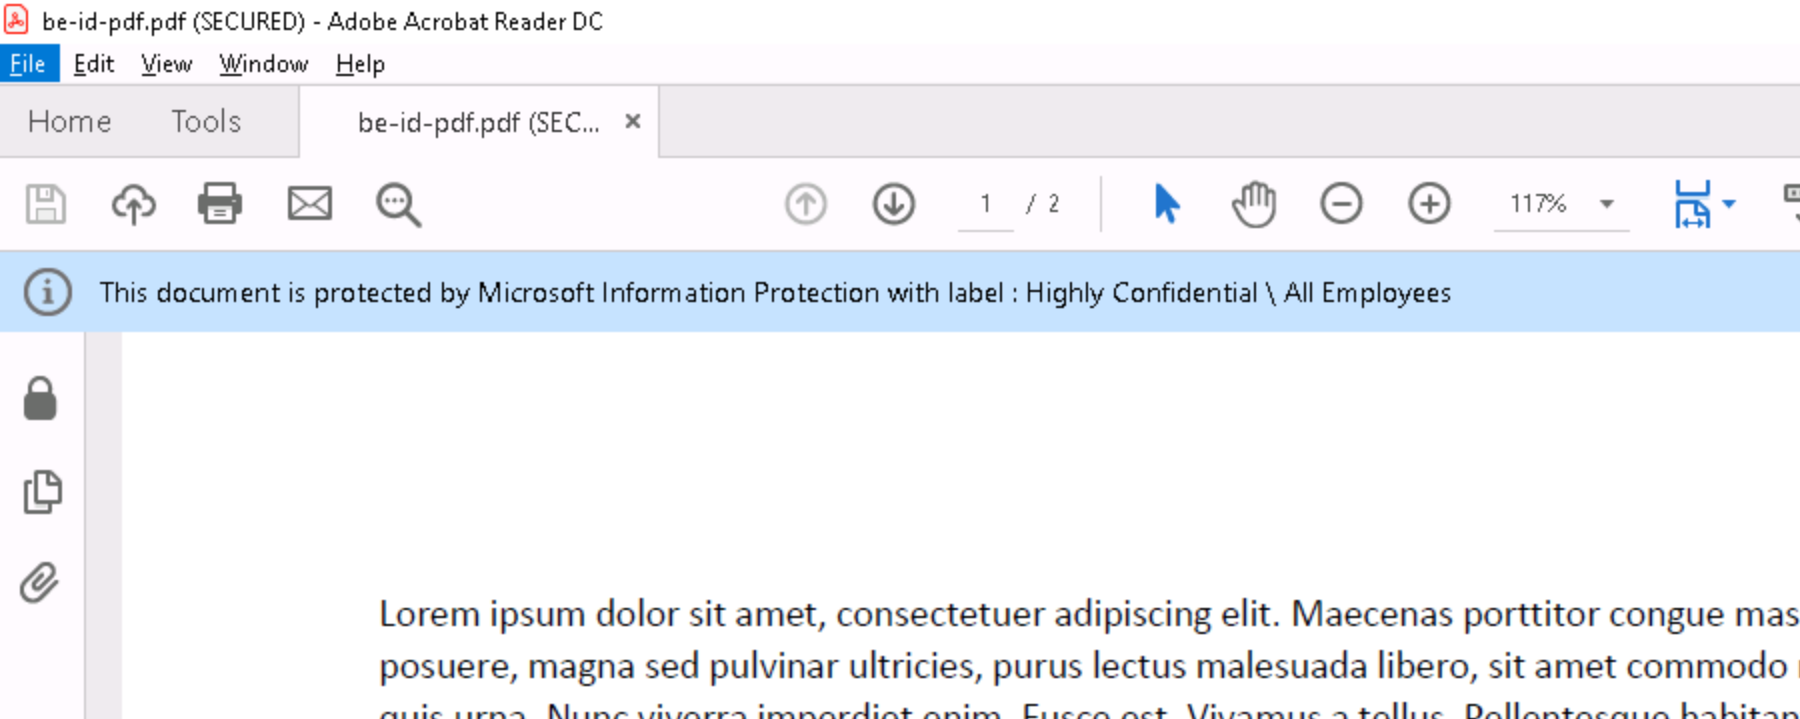
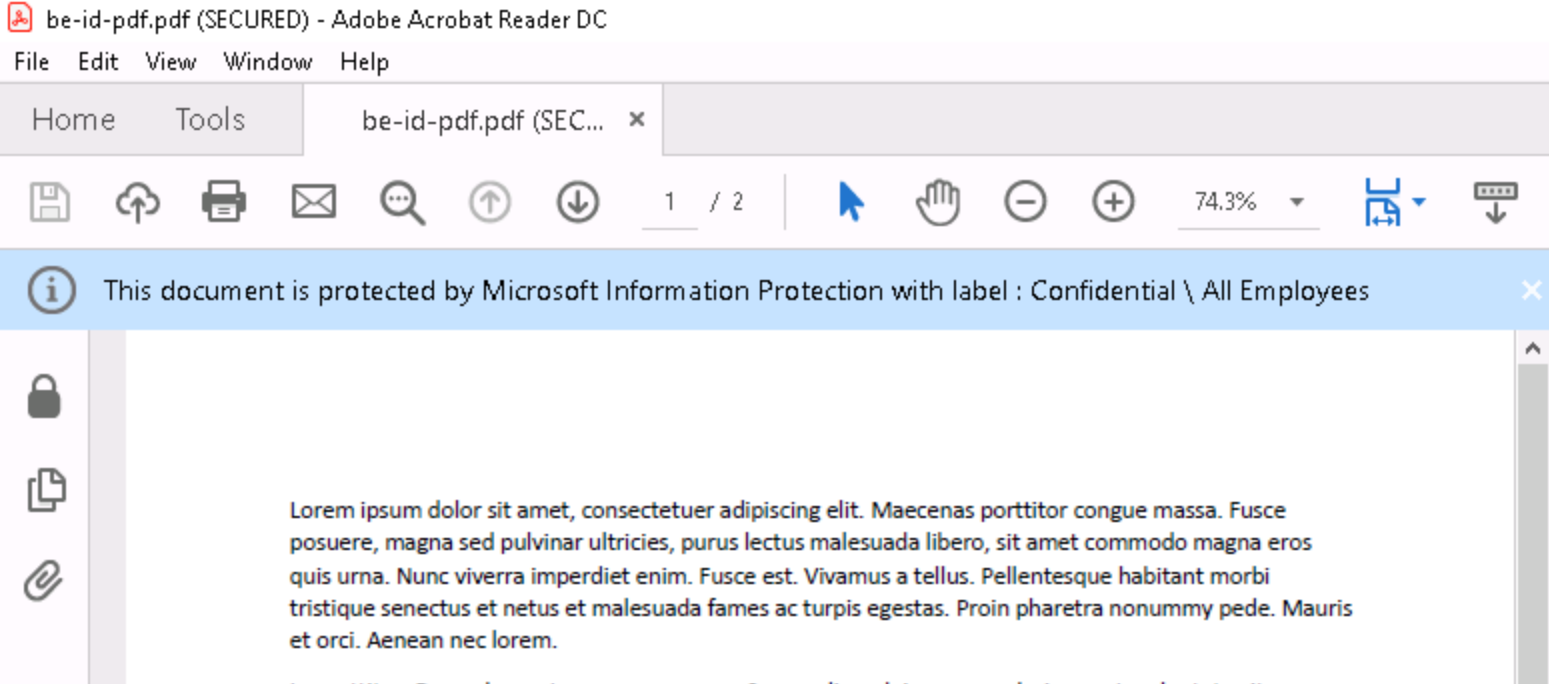
updates

diff --git a/Modules/Working/instructions.md b/Modules/Working/instructions.md
@@ -1089,6 +1089,13 @@ The Azure Information Protection Scanner uses Automatic conditions to identify s
 
 1. [] On @lab.VirtualMachine(Client01).SelectLink, log in with the password +++@lab.VirtualMachine(Client01).Password+++.
 2. [] Open the browser window with the Azure Portal (AIP Blade).
+
+	> [!HINT] If necessary, open an InPrivate browsing session and navigate to ```https://portal.azure.com/#blade/Microsoft_Azure_InformationProtection/DataClassGroupEditBlade/globalBlade``` and login with the credentials below. 
+	>
+	> ```@lab.CloudCredential(17).Username```
+	>
+	> ```@lab.CloudCredential(17).Password```
+
 3. [] Under **Dashboards** on the left, click on **Data discovery (Preview)** to view the results of the discovery scan we performed previously.
 
 	!IMAGE[Dashboard.png](\Media\Dashboard.png)
@@ -1152,15 +1159,14 @@ The Azure Information Protection Scanner uses Automatic conditions to identify s
 In this task, we will set the AIP scanner to enforce the conditions we set up in the previous task and have it rerun on all files using the Start-AIPScan command.
 
 1. [] Switch to @lab.VirtualMachine(Scanner01).SelectLink and log in with the password +++@lab.VirtualMachine(Scanner01).Password+++.
-1. [] In an **Administrative PowerShell** window, run the commands below to run an enforced scan using defined policy.
+1. [] In an **Administrative PowerShell** window, type ```C:\Users\LabUser\Desktop\StartEnforce.ps1``` and press **Enter**. 
 
-    ```
-	Set-AIPScannerConfiguration -Enforce On -DiscoverInformationTypes PolicyOnly
-	```
-	```
-	Start-AIPScan
-    ```
-
+    > [!KNOWLEDGE] The script runs the code below. This script is available online at https://aka.ms/labscripts
+	>
+	> Set-AIPScannerConfiguration -Enforce On -DiscoverInformationTypes PolicyOnly
+	>
+	>Start-AIPScan
+    
 	> [!HINT] Note that this time we used the DiscoverInformationTypes -PolicyOnly switch before starting the scan. This will have the scanner only evaluate the conditions we have explicitly defined in conditions.  This increases the effeciency of the scanner and thus is much faster.  After reviewing the event log we will see the result of the enforced scan.
 	>
 	>!IMAGE[k3rox8ew.jpg](\Media\k3rox8ew.jpg)
@@ -1203,11 +1209,11 @@ Now that we have Classified and Protected documents using the scanner, we can re
 
 	> [!NOTE] If asked to log in, use the credentials below.
 	>
-	> ```AdamS@@lab.CloudCredential(82).TenantName```
+	> ```AdamS@@lab.CloudCredential(17).TenantName```
 	>
 	> ```pass@word1```
 
-    > [!NOTE] Observe that the document is classified as Confidential \ All Employees. 
+    > [!NOTE] Observe that the document is classified as Highly Confidential \ All Employees. 
     >
     > !IMAGE[s1okfpwu.jpg](\Media\s1okfpwu.jpg)
 
@@ -1411,44 +1417,18 @@ Exchange Online can work in conjunction with Azure Information Protection to pro
 
 ## Configuring Exchange Online Mail Flow Rules
 
-In this task, we will configure a mail flow rule to detect sensitive information traversing the network in the clear and encrypt it using the Encrypt Only RMS Template.  We will also create a mail flow rule to prevent messages classified as Confidential \ Contoso Internal from being sent to external recipients.
+In this task, we will configure a mail flow rule to detect sensitive information traversing the network in the clear and encrypt it using the Encrypt Only RMS Template.  We will also create a mail flow rule to prevent messages classified as Confidential \ All Employees from being sent to external recipients.
 
 1. [] Switch to @lab.VirtualMachine(Client01).SelectLink and open an **Admin PowerShell Prompt**.
 
-2. [] Type the commands below to connect to an Exchange Online PowerShell session.  Use the credentials provided when prompted.
-
-	```
-	$UserCredential = Get-Credential
-	```
+1. [] In an **Administrative PowerShell** window, type ```C:\Users\LabUser\Desktop\EncryptSensitiveMFR.ps1``` and press **Enter**. 
+1. [] When prompted, provide the credentials below:
 
 	```@lab.CloudCredential(82).Username```
 
 	```@lab.CloudCredential(82).Password```
 
-	```
-	$Session = New-PSSession -ConfigurationName Microsoft.Exchange -ConnectionUri https://outlook.office365.com/powershell-liveid/ -Credential $UserCredential -Authentication Basic -AllowRedirection
-	Import-PSSession $Session
-	```
-
-	> [!ALERT] If you did not run through the **Base Configuration** track, run the commands below to remove any rules preventing external collaboration.
-	>
-	> Get the active Mail Flow Rules by typing the command below:
-	>
-	> ```
-	> Get-TransportRule
-	> ```
-	>
-	> If a rule exists named something similar to **"Delete if sent outside the organization"**, run the code below to remove this rule.
-	>
-	> ```
-	> Remove-TransportRule *Delete*
-	> ```
-
-1. [] Create a new Exchange Online Mail Flow Rule using the code below:
-
-	```
-	New-TransportRule -Name "Encrypt external mails with sensitive content" -SentToScope NotInOrganization -ApplyRightsProtectionTemplate "Encrypt" -MessageContainsDataClassifications @(@{Name="ABA Routing Number"; minCount="1"},@{Name="Credit Card Number"; minCount="1"},@{Name="Drug Enforcement Agency (DEA) Number"; minCount="1"},@{Name="International Classification of Diseases (ICD-10-CM)"; minCount="1"},@{Name="International Classification of Diseases (ICD-9-CM)"; minCount="1"},@{Name="U.S. / U.K. Passport Number"; minCount="1"},@{Name="U.S. Bank Account Number"; minCount="1"},@{Name="U.S. Individual Taxpayer Identification Number (ITIN)"; minCount="1"},@{Name="U.S. Social Security Number (SSN)"; minCount="1"})
-	```
+	> [!NOTE] If prompted to remove a transport rule, hit **Enter**.
 
 	>[!KNOWLEDGE] This mail flow rule can be used to encrypt sensitive data leaving via email.  This can be customized to add additional sensitive data types. A breakdown of the command is listed below.
 	>
@@ -1461,6 +1441,18 @@ In this task, we will configure a mail flow rule to detect sensitive information
 	>-ApplyRightsProtectionTemplate "Encrypt" 
 	>
 	>-MessageContainsDataClassifications @(@{Name="ABA Routing Number"; minCount="1"},@{Name="Credit Card Number"; minCount="1"},@{Name="Drug Enforcement Agency (DEA) Number"; minCount="1"},@{Name="International Classification of Diseases (ICD-10-CM)"; minCount="1"},@{Name="International Classification of Diseases (ICD-9-CM)"; minCount="1"},@{Name="U.S. / U.K. Passport Number"; minCount="1"},@{Name="U.S. Bank Account Number"; minCount="1"},@{Name="U.S. Individual Taxpayer Identification Number (ITIN)"; minCount="1"},@{Name="U.S. Social Security Number (SSN)"; minCount="1"})
+
+    > [!KNOWLEDGE] The script runs the code below. This script is available online at https://aka.ms/labscripts
+	>
+	> $UserCredential = Get-Credential
+	>
+	>$Session = New-PSSession -ConfigurationName Microsoft.Exchange -ConnectionUri https://outlook.office365.com/powershell-liveid/ -Credential $UserCredential -Authentication Basic -AllowRedirection
+	Import-PSSession $Session
+	>
+	> If(Get-TransportRule *Delete*){Remove-TransportRule *Delete*}
+	>
+	> New-TransportRule -Name "Encrypt external mails with sensitive content" -SentToScope NotInOrganization -ApplyRightsProtectionTemplate "Encrypt" -MessageContainsDataClassifications @(@{Name="ABA Routing Number"; minCount="1"},@{Name="Credit Card Number"; minCount="1"},@{Name="Drug Enforcement Agency (DEA) Number"; minCount="1"},@{Name="International Classification of Diseases (ICD-10-CM)"; minCount="1"},@{Name="International Classification of Diseases (ICD-9-CM)"; minCount="1"},@{Name="U.S. / U.K. Passport Number"; minCount="1"},@{Name="U.S. Bank Account Number"; minCount="1"},@{Name="U.S. Individual Taxpayer Identification Number (ITIN)"; minCount="1"},@{Name="U.S. Social Security Number (SSN)"; minCount="1"})
+
 	
 	> [!HINT] Next, we need to capture the **Label ID** for the **Confidential \ All Employees** label. 
 
@@ -1476,15 +1468,17 @@ In this task, we will configure a mail flow rule to detect sensitive information
 
 	> [!ALERT] Make sure that there are no spaces before or after the Label ID as this will cause the mail flow rule to be ineffective.
 
-1. [] Next, return to the PowerShell window and type +++$labelid = "+++ then paste the **LabelID** for the **All Employees** label, type +++"+++, and press **Enter**.
-1. [] Now, create another Exchange Online Mail Flow Rule using the code below:
+1. [] Next, paste the copied value into a new txt file to use in the next step.
+1. [] In an **Administrative PowerShell** window, type ```C:\Users\LabUser\Desktop\BlockInternal.ps1``` and press **Enter**. 
+1. [] When prompted, provide the credentials below:
 
-	```
-	$labeltext = "MSIP_Label_"+$labelid+"_enabled=true"
-	New-TransportRule -name "Block Confidential Contoso All Employees" -SentToScope notinorganization -HeaderContainsMessageHeader  "msip_labels" -HeaderContainsWord $labeltext -RejectMessageReasonText “Contoso internal messages cannot be sent to external recipients.”
-	```
+	```@lab.CloudCredential(82).Username```
 
-	>[!KNOWLEDGE] This mail flow rule can be used to prevent internal only communications from being sent to an external audience.
+	```@lab.CloudCredential(82).Password```
+
+	> [!NOTE] If prompted to remove a transport rule, hit **Enter**.
+
+	> [!KNOWLEDGE] This mail flow rule can be used to prevent internal only communications from being sent to an external audience.
 	>
 	>New-TransportRule 
 	>
@@ -1498,7 +1492,23 @@ In this task, we will configure a mail flow rule to detect sensitive information
 	>
 	>-RejectMessageReasonText “Contoso internal messages cannot be sent to external recipients.”
 
-	>[!NOTE] In a production environment, customers would want to create a rule like this for each of their labels that they did not want going externally.
+	> [!KNOWLEDGE] The script runs the code below. This script is available online at https://aka.ms/labscripts
+	>
+	> $UserCredential = Get-Credential
+	>
+	>$Session = New-PSSession -ConfigurationName Microsoft.Exchange -ConnectionUri https://outlook.office365.com/powershell-liveid/ -Credential $UserCredential -Authentication Basic -AllowRedirection
+	Import-PSSession $Session
+	>
+	> Add-Type -AssemblyName Microsoft.VisualBasic
+	>
+	> $labelid = [Microsoft.VisualBasic.Interaction]::InputBox('Enter the LabelId for your All Employees Label', 'LabelId')
+	> 
+	> If(Get-TransportRule *Delete*){Remove-TransportRule *Delete*}
+	> 
+	> $labeltext = "MSIP_Label_"+$labelid+"_enabled=true"
+	New-TransportRule -name "Block Confidential Contoso All Employees" -SentToScope notinorganization -HeaderContainsMessageHeader  "msip_labels" -HeaderContainsWord $labeltext -RejectMessageReasonText “Contoso internal messages cannot be sent to external recipients.”
+
+	> [!NOTE] In a production environment, customers would want to create a rule like this for each of their labels that they did not want going externally.
 
 ---
 ## Demonstrating Exchange Online Mail Flow Rules

diff --git a/Modules/Working/07-ExchangeMFR.md b/Modules/Working/07-ExchangeMFR.md
@@ -9,44 +9,18 @@ Exchange Online can work in conjunction with Azure Information Protection to pro
 
 ## Configuring Exchange Online Mail Flow Rules
 
-In this task, we will configure a mail flow rule to detect sensitive information traversing the network in the clear and encrypt it using the Encrypt Only RMS Template.  We will also create a mail flow rule to prevent messages classified as Confidential \ Contoso Internal from being sent to external recipients.
+In this task, we will configure a mail flow rule to detect sensitive information traversing the network in the clear and encrypt it using the Encrypt Only RMS Template.  We will also create a mail flow rule to prevent messages classified as Confidential \ All Employees from being sent to external recipients.
 
 1. [] Switch to @lab.VirtualMachine(Client01).SelectLink and open an **Admin PowerShell Prompt**.
 
-2. [] Type the commands below to connect to an Exchange Online PowerShell session.  Use the credentials provided when prompted.
-
-	```
-	$UserCredential = Get-Credential
-	```
+1. [] In an **Administrative PowerShell** window, type ```C:\Users\LabUser\Desktop\EncryptSensitiveMFR.ps1``` and press **Enter**. 
+1. [] When prompted, provide the credentials below:
 
 	```@lab.CloudCredential(82).Username```
 
 	```@lab.CloudCredential(82).Password```
 
-	```
-	$Session = New-PSSession -ConfigurationName Microsoft.Exchange -ConnectionUri https://outlook.office365.com/powershell-liveid/ -Credential $UserCredential -Authentication Basic -AllowRedirection
-	Import-PSSession $Session
-	```
-
-	> [!ALERT] If you did not run through the **Base Configuration** track, run the commands below to remove any rules preventing external collaboration.
-	>
-	> Get the active Mail Flow Rules by typing the command below:
-	>
-	> ```
-	> Get-TransportRule
-	> ```
-	>
-	> If a rule exists named something similar to **"Delete if sent outside the organization"**, run the code below to remove this rule.
-	>
-	> ```
-	> Remove-TransportRule *Delete*
-	> ```
-
-1. [] Create a new Exchange Online Mail Flow Rule using the code below:
-
-	```
-	New-TransportRule -Name "Encrypt external mails with sensitive content" -SentToScope NotInOrganization -ApplyRightsProtectionTemplate "Encrypt" -MessageContainsDataClassifications @(@{Name="ABA Routing Number"; minCount="1"},@{Name="Credit Card Number"; minCount="1"},@{Name="Drug Enforcement Agency (DEA) Number"; minCount="1"},@{Name="International Classification of Diseases (ICD-10-CM)"; minCount="1"},@{Name="International Classification of Diseases (ICD-9-CM)"; minCount="1"},@{Name="U.S. / U.K. Passport Number"; minCount="1"},@{Name="U.S. Bank Account Number"; minCount="1"},@{Name="U.S. Individual Taxpayer Identification Number (ITIN)"; minCount="1"},@{Name="U.S. Social Security Number (SSN)"; minCount="1"})
-	```
+	> [!NOTE] If prompted to remove a transport rule, hit **Enter**.
 
 	>[!KNOWLEDGE] This mail flow rule can be used to encrypt sensitive data leaving via email.  This can be customized to add additional sensitive data types. A breakdown of the command is listed below.
 	>
@@ -59,6 +33,18 @@ In this task, we will configure a mail flow rule to detect sensitive information
 	>-ApplyRightsProtectionTemplate "Encrypt" 
 	>
 	>-MessageContainsDataClassifications @(@{Name="ABA Routing Number"; minCount="1"},@{Name="Credit Card Number"; minCount="1"},@{Name="Drug Enforcement Agency (DEA) Number"; minCount="1"},@{Name="International Classification of Diseases (ICD-10-CM)"; minCount="1"},@{Name="International Classification of Diseases (ICD-9-CM)"; minCount="1"},@{Name="U.S. / U.K. Passport Number"; minCount="1"},@{Name="U.S. Bank Account Number"; minCount="1"},@{Name="U.S. Individual Taxpayer Identification Number (ITIN)"; minCount="1"},@{Name="U.S. Social Security Number (SSN)"; minCount="1"})
+
+    > [!KNOWLEDGE] The script runs the code below. This script is available online at https://aka.ms/labscripts
+	>
+	> $UserCredential = Get-Credential
+	>
+	>$Session = New-PSSession -ConfigurationName Microsoft.Exchange -ConnectionUri https://outlook.office365.com/powershell-liveid/ -Credential $UserCredential -Authentication Basic -AllowRedirection
+	Import-PSSession $Session
+	>
+	> If(Get-TransportRule *Delete*){Remove-TransportRule *Delete*}
+	>
+	> New-TransportRule -Name "Encrypt external mails with sensitive content" -SentToScope NotInOrganization -ApplyRightsProtectionTemplate "Encrypt" -MessageContainsDataClassifications @(@{Name="ABA Routing Number"; minCount="1"},@{Name="Credit Card Number"; minCount="1"},@{Name="Drug Enforcement Agency (DEA) Number"; minCount="1"},@{Name="International Classification of Diseases (ICD-10-CM)"; minCount="1"},@{Name="International Classification of Diseases (ICD-9-CM)"; minCount="1"},@{Name="U.S. / U.K. Passport Number"; minCount="1"},@{Name="U.S. Bank Account Number"; minCount="1"},@{Name="U.S. Individual Taxpayer Identification Number (ITIN)"; minCount="1"},@{Name="U.S. Social Security Number (SSN)"; minCount="1"})
+
 	
 	> [!HINT] Next, we need to capture the **Label ID** for the **Confidential \ All Employees** label. 
 
@@ -74,15 +60,17 @@ In this task, we will configure a mail flow rule to detect sensitive information
 
 	> [!ALERT] Make sure that there are no spaces before or after the Label ID as this will cause the mail flow rule to be ineffective.
 
-1. [] Next, return to the PowerShell window and type +++$labelid = "+++ then paste the **LabelID** for the **All Employees** label, type +++"+++, and press **Enter**.
-1. [] Now, create another Exchange Online Mail Flow Rule using the code below:
+1. [] Next, paste the copied value into a new txt file to use in the next step.
+1. [] In an **Administrative PowerShell** window, type ```C:\Users\LabUser\Desktop\BlockInternal.ps1``` and press **Enter**. 
+1. [] When prompted, provide the credentials below:
 
-	```
-	$labeltext = "MSIP_Label_"+$labelid+"_enabled=true"
-	New-TransportRule -name "Block Confidential Contoso All Employees" -SentToScope notinorganization -HeaderContainsMessageHeader  "msip_labels" -HeaderContainsWord $labeltext -RejectMessageReasonText “Contoso internal messages cannot be sent to external recipients.”
-	```
+	```@lab.CloudCredential(82).Username```
 
-	>[!KNOWLEDGE] This mail flow rule can be used to prevent internal only communications from being sent to an external audience.
+	```@lab.CloudCredential(82).Password```
+
+	> [!NOTE] If prompted to remove a transport rule, hit **Enter**.
+
+	> [!KNOWLEDGE] This mail flow rule can be used to prevent internal only communications from being sent to an external audience.
 	>
 	>New-TransportRule 
 	>
@@ -96,7 +84,23 @@ In this task, we will configure a mail flow rule to detect sensitive information
 	>
 	>-RejectMessageReasonText “Contoso internal messages cannot be sent to external recipients.”
 
-	>[!NOTE] In a production environment, customers would want to create a rule like this for each of their labels that they did not want going externally.
+	> [!KNOWLEDGE] The script runs the code below. This script is available online at https://aka.ms/labscripts
+	>
+	> $UserCredential = Get-Credential
+	>
+	>$Session = New-PSSession -ConfigurationName Microsoft.Exchange -ConnectionUri https://outlook.office365.com/powershell-liveid/ -Credential $UserCredential -Authentication Basic -AllowRedirection
+	Import-PSSession $Session
+	>
+	> Add-Type -AssemblyName Microsoft.VisualBasic
+	>
+	> $labelid = [Microsoft.VisualBasic.Interaction]::InputBox('Enter the LabelId for your All Employees Label', 'LabelId')
+	> 
+	> If(Get-TransportRule *Delete*){Remove-TransportRule *Delete*}
+	> 
+	> $labeltext = "MSIP_Label_"+$labelid+"_enabled=true"
+	New-TransportRule -name "Block Confidential Contoso All Employees" -SentToScope notinorganization -HeaderContainsMessageHeader  "msip_labels" -HeaderContainsWord $labeltext -RejectMessageReasonText “Contoso internal messages cannot be sent to external recipients.”
+
+	> [!NOTE] In a production environment, customers would want to create a rule like this for each of their labels that they did not want going externally.
 
 ---
 ## Demonstrating Exchange Online Mail Flow Rules

diff --git a/Modules/Working/04-ScannerCLP.md b/Modules/Working/04-ScannerCLP.md
@@ -21,6 +21,13 @@ The Azure Information Protection Scanner uses Automatic conditions to identify s
 
 1. [] On @lab.VirtualMachine(Client01).SelectLink, log in with the password +++@lab.VirtualMachine(Client01).Password+++.
 2. [] Open the browser window with the Azure Portal (AIP Blade).
+
+	> [!HINT] If necessary, open an InPrivate browsing session and navigate to ```https://portal.azure.com/#blade/Microsoft_Azure_InformationProtection/DataClassGroupEditBlade/globalBlade``` and login with the credentials below. 
+	>
+	> ```@lab.CloudCredential(17).Username```
+	>
+	> ```@lab.CloudCredential(17).Password```
+
 3. [] Under **Dashboards** on the left, click on **Data discovery (Preview)** to view the results of the discovery scan we performed previously.
 
 	!IMAGE[Dashboard.png](\Media\Dashboard.png)
@@ -84,15 +91,14 @@ The Azure Information Protection Scanner uses Automatic conditions to identify s
 In this task, we will set the AIP scanner to enforce the conditions we set up in the previous task and have it rerun on all files using the Start-AIPScan command.
 
 1. [] Switch to @lab.VirtualMachine(Scanner01).SelectLink and log in with the password +++@lab.VirtualMachine(Scanner01).Password+++.
-1. [] In an **Administrative PowerShell** window, run the commands below to run an enforced scan using defined policy.
+1. [] In an **Administrative PowerShell** window, type ```C:\Users\LabUser\Desktop\StartEnforce.ps1``` and press **Enter**. 
 
-    ```
-	Set-AIPScannerConfiguration -Enforce On -DiscoverInformationTypes PolicyOnly
-	```
-	```
-	Start-AIPScan
-    ```
-
+    > [!KNOWLEDGE] The script runs the code below. This script is available online at https://aka.ms/labscripts
+	>
+	> Set-AIPScannerConfiguration -Enforce On -DiscoverInformationTypes PolicyOnly
+	>
+	>Start-AIPScan
+    
 	> [!HINT] Note that this time we used the DiscoverInformationTypes -PolicyOnly switch before starting the scan. This will have the scanner only evaluate the conditions we have explicitly defined in conditions.  This increases the effeciency of the scanner and thus is much faster.  After reviewing the event log we will see the result of the enforced scan.
 	>
 	>!IMAGE[k3rox8ew.jpg](\Media\k3rox8ew.jpg)
@@ -135,11 +141,11 @@ Now that we have Classified and Protected documents using the scanner, we can re
 
 	> [!NOTE] If asked to log in, use the credentials below.
 	>
-	> ```AdamS@@lab.CloudCredential(82).TenantName```
+	> ```AdamS@@lab.CloudCredential(17).TenantName```
 	>
 	> ```pass@word1```
 
-    > [!NOTE] Observe that the document is classified as Confidential \ All Employees. 
+    > [!NOTE] Observe that the document is classified as Highly Confidential \ All Employees. 
     >
     > !IMAGE[s1okfpwu.jpg](\Media\s1okfpwu.jpg)
 
